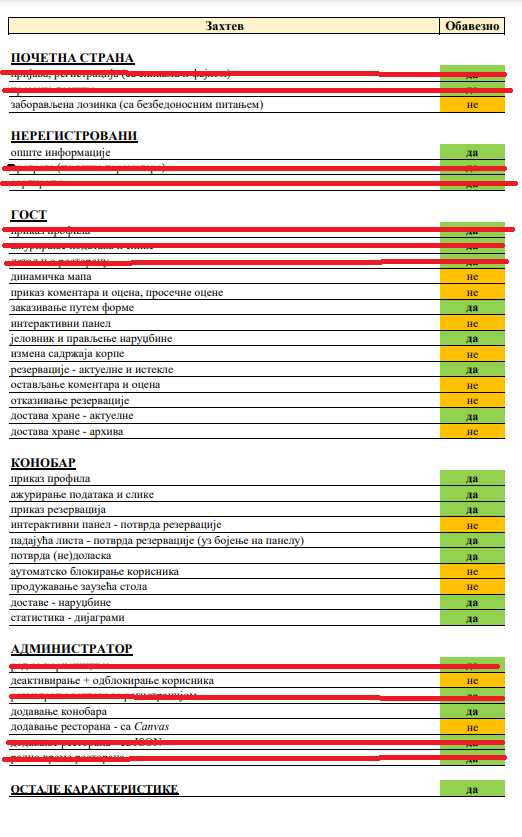
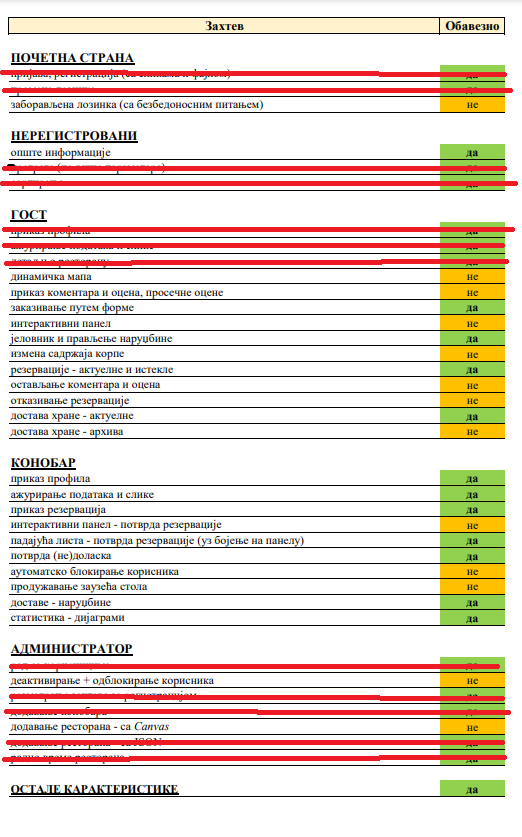
dodao dodavanje konobara

Changed region(s): [[0.0, 0.8387, 0.9808, 0.8698]]

diff --git a/frontend/src/app/add-waiter/add-waiter.component.html b/frontend/src/app/add-waiter/add-waiter.component.html
@@ -1,1 +1,70 @@
-<p>add-waiter works!</p>
+<div class="text-center container p-4">
+    <main class="form-signin">
+      <form (ngSubmit)="addWaiter()">
+        <h1 class="h3 mb-3 fw-normal">Add Waiter</h1>
+    
+        <div class="form-floating p-2">
+          <input type="text" class="form-control" id="username" name="username" placeholder="Username" [(ngModel)]="waiter.username" required>
+          <label for="username">Username</label>
+        </div>
+        <div class="form-floating p-2">
+          <input type="password" class="form-control" id="password" name="password" placeholder="Password" [(ngModel)]="waiter.password" required>
+          <label for="password">Password</label>
+        </div>
+        <div class="form-floating p-2">
+          <input type="text" class="form-control" id="firstName" name="firstName" placeholder="First Name" [(ngModel)]="waiter.firstName" required>
+          <label for="firstName">First Name</label>
+        </div>
+        <div class="form-floating p-2">
+          <input type="text" class="form-control" id="lastName" name="lastName" placeholder="Last Name" [(ngModel)]="waiter.lastName" required>
+          <label for="lastName">Last Name</label>
+        </div>
+        <div class="form-floating p-2">
+          <input type="text" class="form-control" id="address" name="address" placeholder="Address" [(ngModel)]="waiter.address" required>
+          <label for="address">Address</label>
+        </div>
+        <div class="form-floating p-2">
+          <input type="text" class="form-control" id="phoneNumber" name="phoneNumber" placeholder="Phone Number" [(ngModel)]="waiter.phoneNumber" required>
+          <label for="phoneNumber">Phone Number</label>
+        </div>
+        <div class="form-floating p-2">
+          <input type="email" class="form-control" id="email" name="email" placeholder="Email" [(ngModel)]="waiter.email" required>
+          <label for="email">Email</label>
+        </div>
+        <div class="form-floating p-2">
+          <input type="text" class="form-control" id="creditCard" name="creditCard" placeholder="Credit Card" [(ngModel)]="waiter.creditCard" required>
+          <label for="creditCard">Credit Card</label>
+        </div>
+  
+        <div class="form-group p-2">
+          <label for="gender" class="form-label">Gender</label>
+          <div class="form-check">
+            <input class="form-check-input" type="radio" name="gender" id="male" value="Male" [(ngModel)]="waiter.gender">
+            <label class="form-check-label" for="male">Male</label>
+          </div>
+          <div class="form-check">
+            <input class="form-check-input" type="radio" name="gender" id="female" value="Female" [(ngModel)]="waiter.gender">
+            <label class="form-check-label" for="female">Female</label>
+          </div>
+        </div>
+        <div class="form-group p-2">
+          <label for="profilePicture" class="form-label">Profile Picture</label>
+          <input type="file" class="form-control" id="profilePicture" name="profilePicture" accept="image/jpeg, image/png" (change)="onFileSelected($event)">
+        </div>
+        <div class="form-group p-2">
+            <label for="restaurantName" class="form-label">Restaurant</label>
+            <select class="form-control" id="restaurantName" name="restaurantName" [(ngModel)]="waiter.restaurantName" required>
+              <option *ngFor="let restaurant of restaurants" [value]="restaurant.name">{{restaurant.name}}</option>
+            </select>
+        </div>
+    
+        <div class="mt-2">
+          <button class="w-60 btn btn-lg btn-primary" type="submit">Add Waiter</button>
+        </div>
+      </form>
+    </main>
+    <div class="mt-4 text-danger">
+      <p>{{message}}</p>
+    </div>
+  </div>
+  

diff --git a/frontend/src/app/add-waiter/add-waiter.component.ts b/frontend/src/app/add-waiter/add-waiter.component.ts
@@ -1,4 +1,9 @@
 import { Component } from '@angular/core';
+import { User } from '../model/user.model';
+import { UserService } from '../users.service';
+import { AuthService } from '../auth.service';
+import { Restaurant } from '../model/restaurant.model';
+import { RestaurantService } from '../restaurant.service';
 
 @Component({
   selector: 'app-add-waiter',
@@ -6,5 +11,48 @@ import { Component } from '@angular/core';
   styleUrls: ['./add-waiter.component.css']
 })
 export class AddWaiterComponent {
+  waiter: User = new User();
+  restaurants: Restaurant[] = [];
+  message: string = '';
 
+  constructor(private authService: AuthService, private restaurantService: RestaurantService) {
+    this.fetchAllRestaurants();
+
+    this.waiter.role = 'waiter';
+    this.waiter.status = 'approved';
+  }
+
+  fetchAllRestaurants(): void {
+    this.restaurantService.getAllRestaurants().subscribe(
+      (restaurants) => {
+        this.restaurants = restaurants;
+        console.log('Fetched restaurants:', this.restaurants);
+      },
+      (error) => {
+        console.error('Error fetching restaurants:', error);
+      }
+    );
+  }
+
+  onFileSelected(event: any): void {
+    const file: File = event.target.files[0];
+    if (file) {
+      const reader = new FileReader();
+      reader.onload = (e: any) => {
+        this.waiter.profilePicture = e.target.result;
+      };
+      reader.readAsDataURL(file);
+    }
+  }
+
+  addWaiter(): void {
+    this.authService.register(this.waiter).subscribe(
+      response => {
+        this.message = 'Waiter added successfully';
+      },
+      error => {
+        this.message = 'Failed to add waiter';
+      }
+    );
+  }
 }

diff --git a/backend/src/server.ts b/backend/src/server.ts
@@ -93,6 +93,10 @@ router.route('/register').post((req, res) => {
         role
     });
 
+    if (newUser.role == "waiter") {
+      newUser.status = "approved";
+    }
+
     newUser.save()
         .then(user => {
             console.log('New user created:', user);

diff --git a/backend/src/model/user.ts b/backend/src/model/user.ts
@@ -44,6 +44,9 @@ let User = new Schema({
         type: String,
         enum: ['pending', 'approved', 'denied'],
         default: 'pending'
+    },
+    restaurantName: {
+        type: String
     }
 });
 

diff --git a/frontend/src/app/model/user.model.ts b/frontend/src/app/model/user.model.ts
@@ -11,4 +11,5 @@ export class User {
     creditCard: string = "";
     role: string = "guest";
     status: string = "";
+    restaurantName: string = "";
 }
